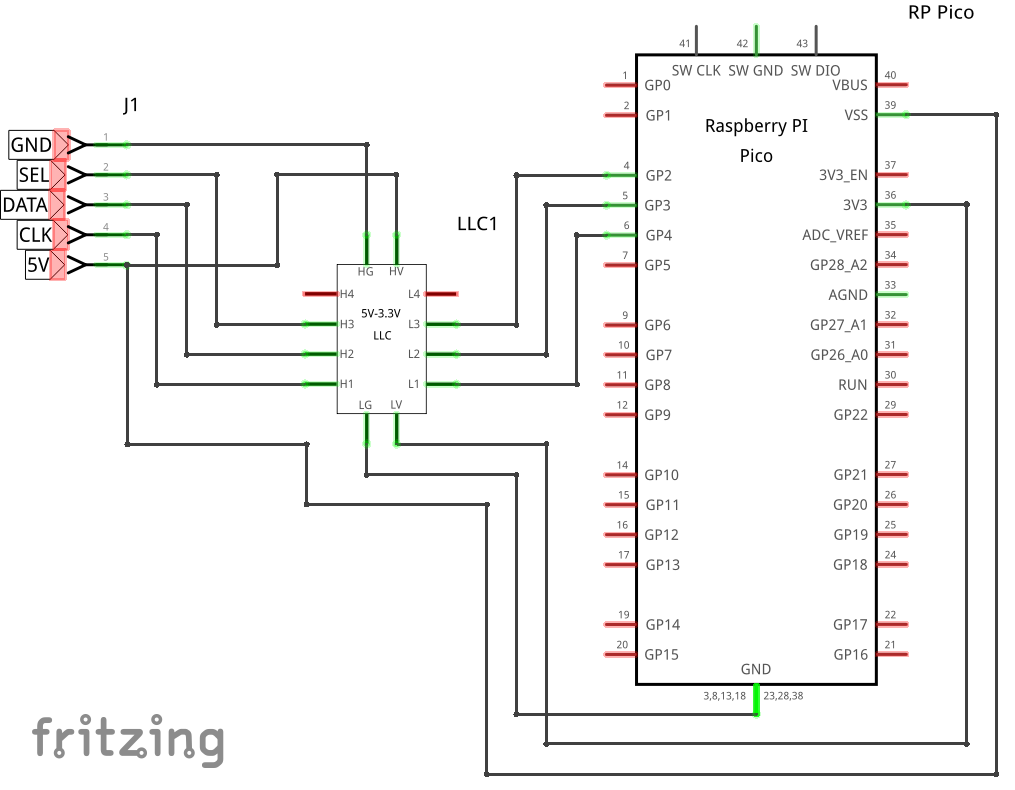
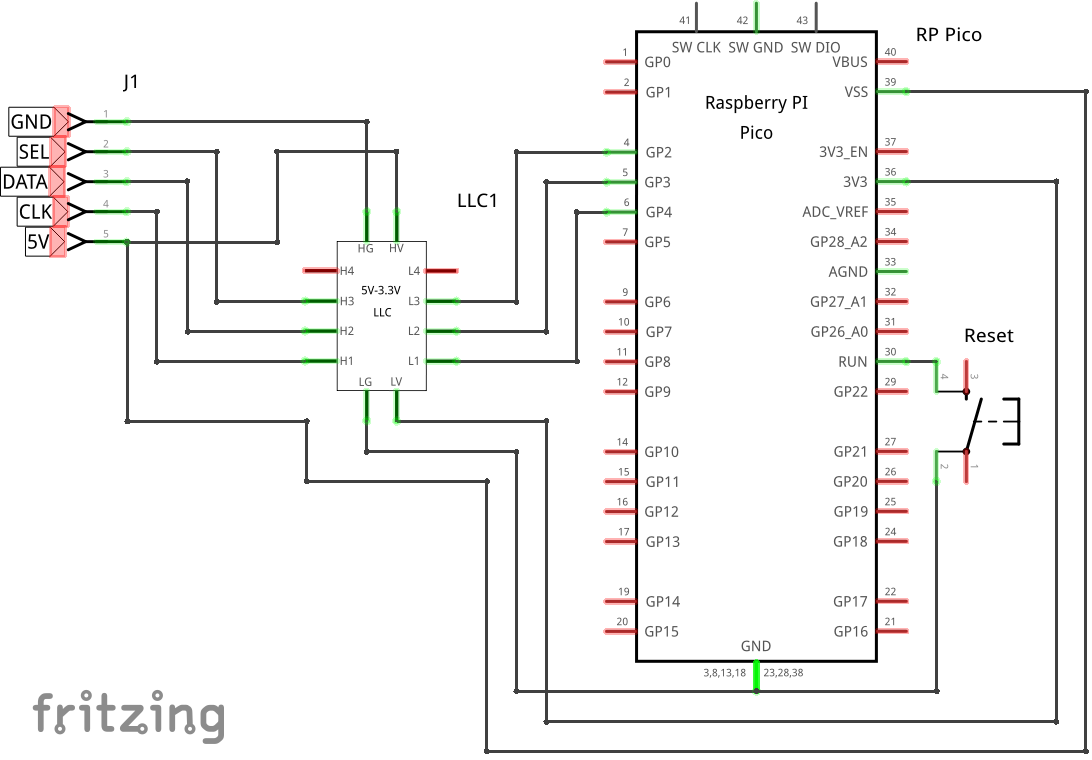
Reset button added (must have)

Changed region(s): [[0.0, 0.0, 1.0, 0.9987], [0.0305, 0.9079, 0.2443, 0.9987]]

diff --git a/README.md b/README.md
@@ -8,7 +8,8 @@
 
 **Что понадобится:**
 - Сама отладочная плата Raspberry Pi Pico;
-- Преобразователь логических уровней 4-х канальный (стоит копейки).
+- Преобразователь логических уровней 4-х канальный (стоит копейки);
+- Тактовая кнопка (для сброса смонтированного образа).
 
 **Схема подключения:**
 
